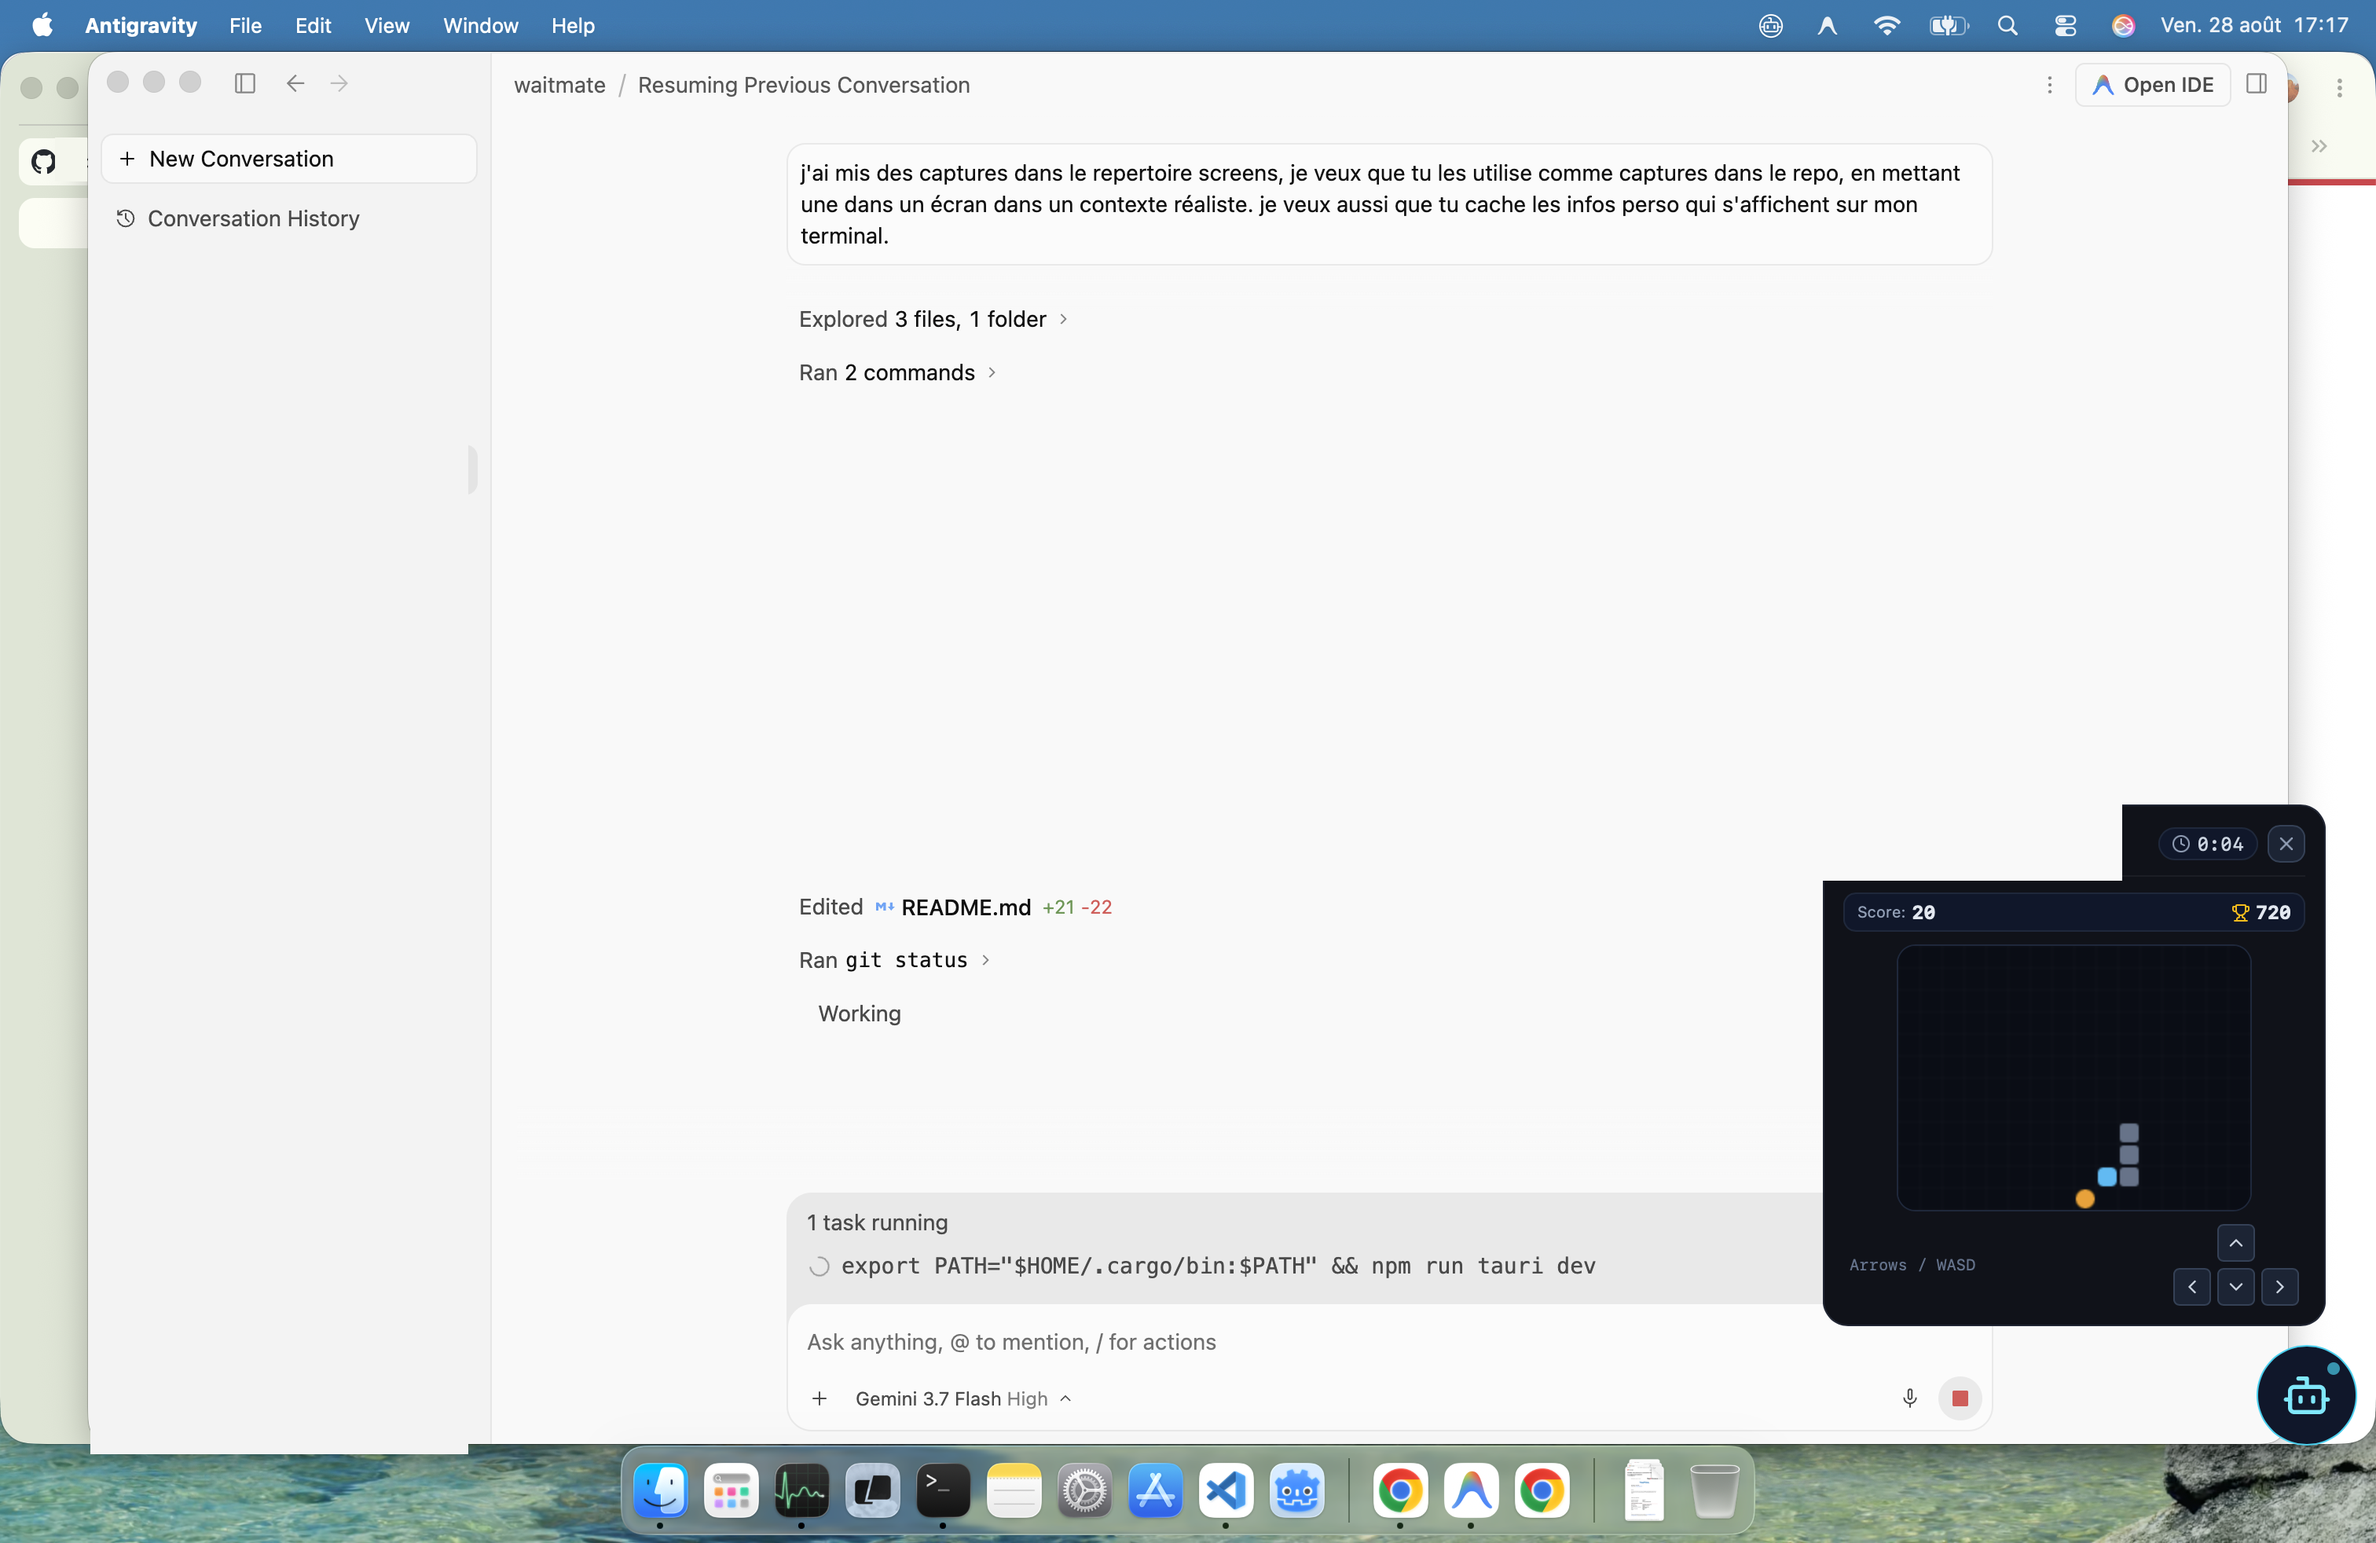
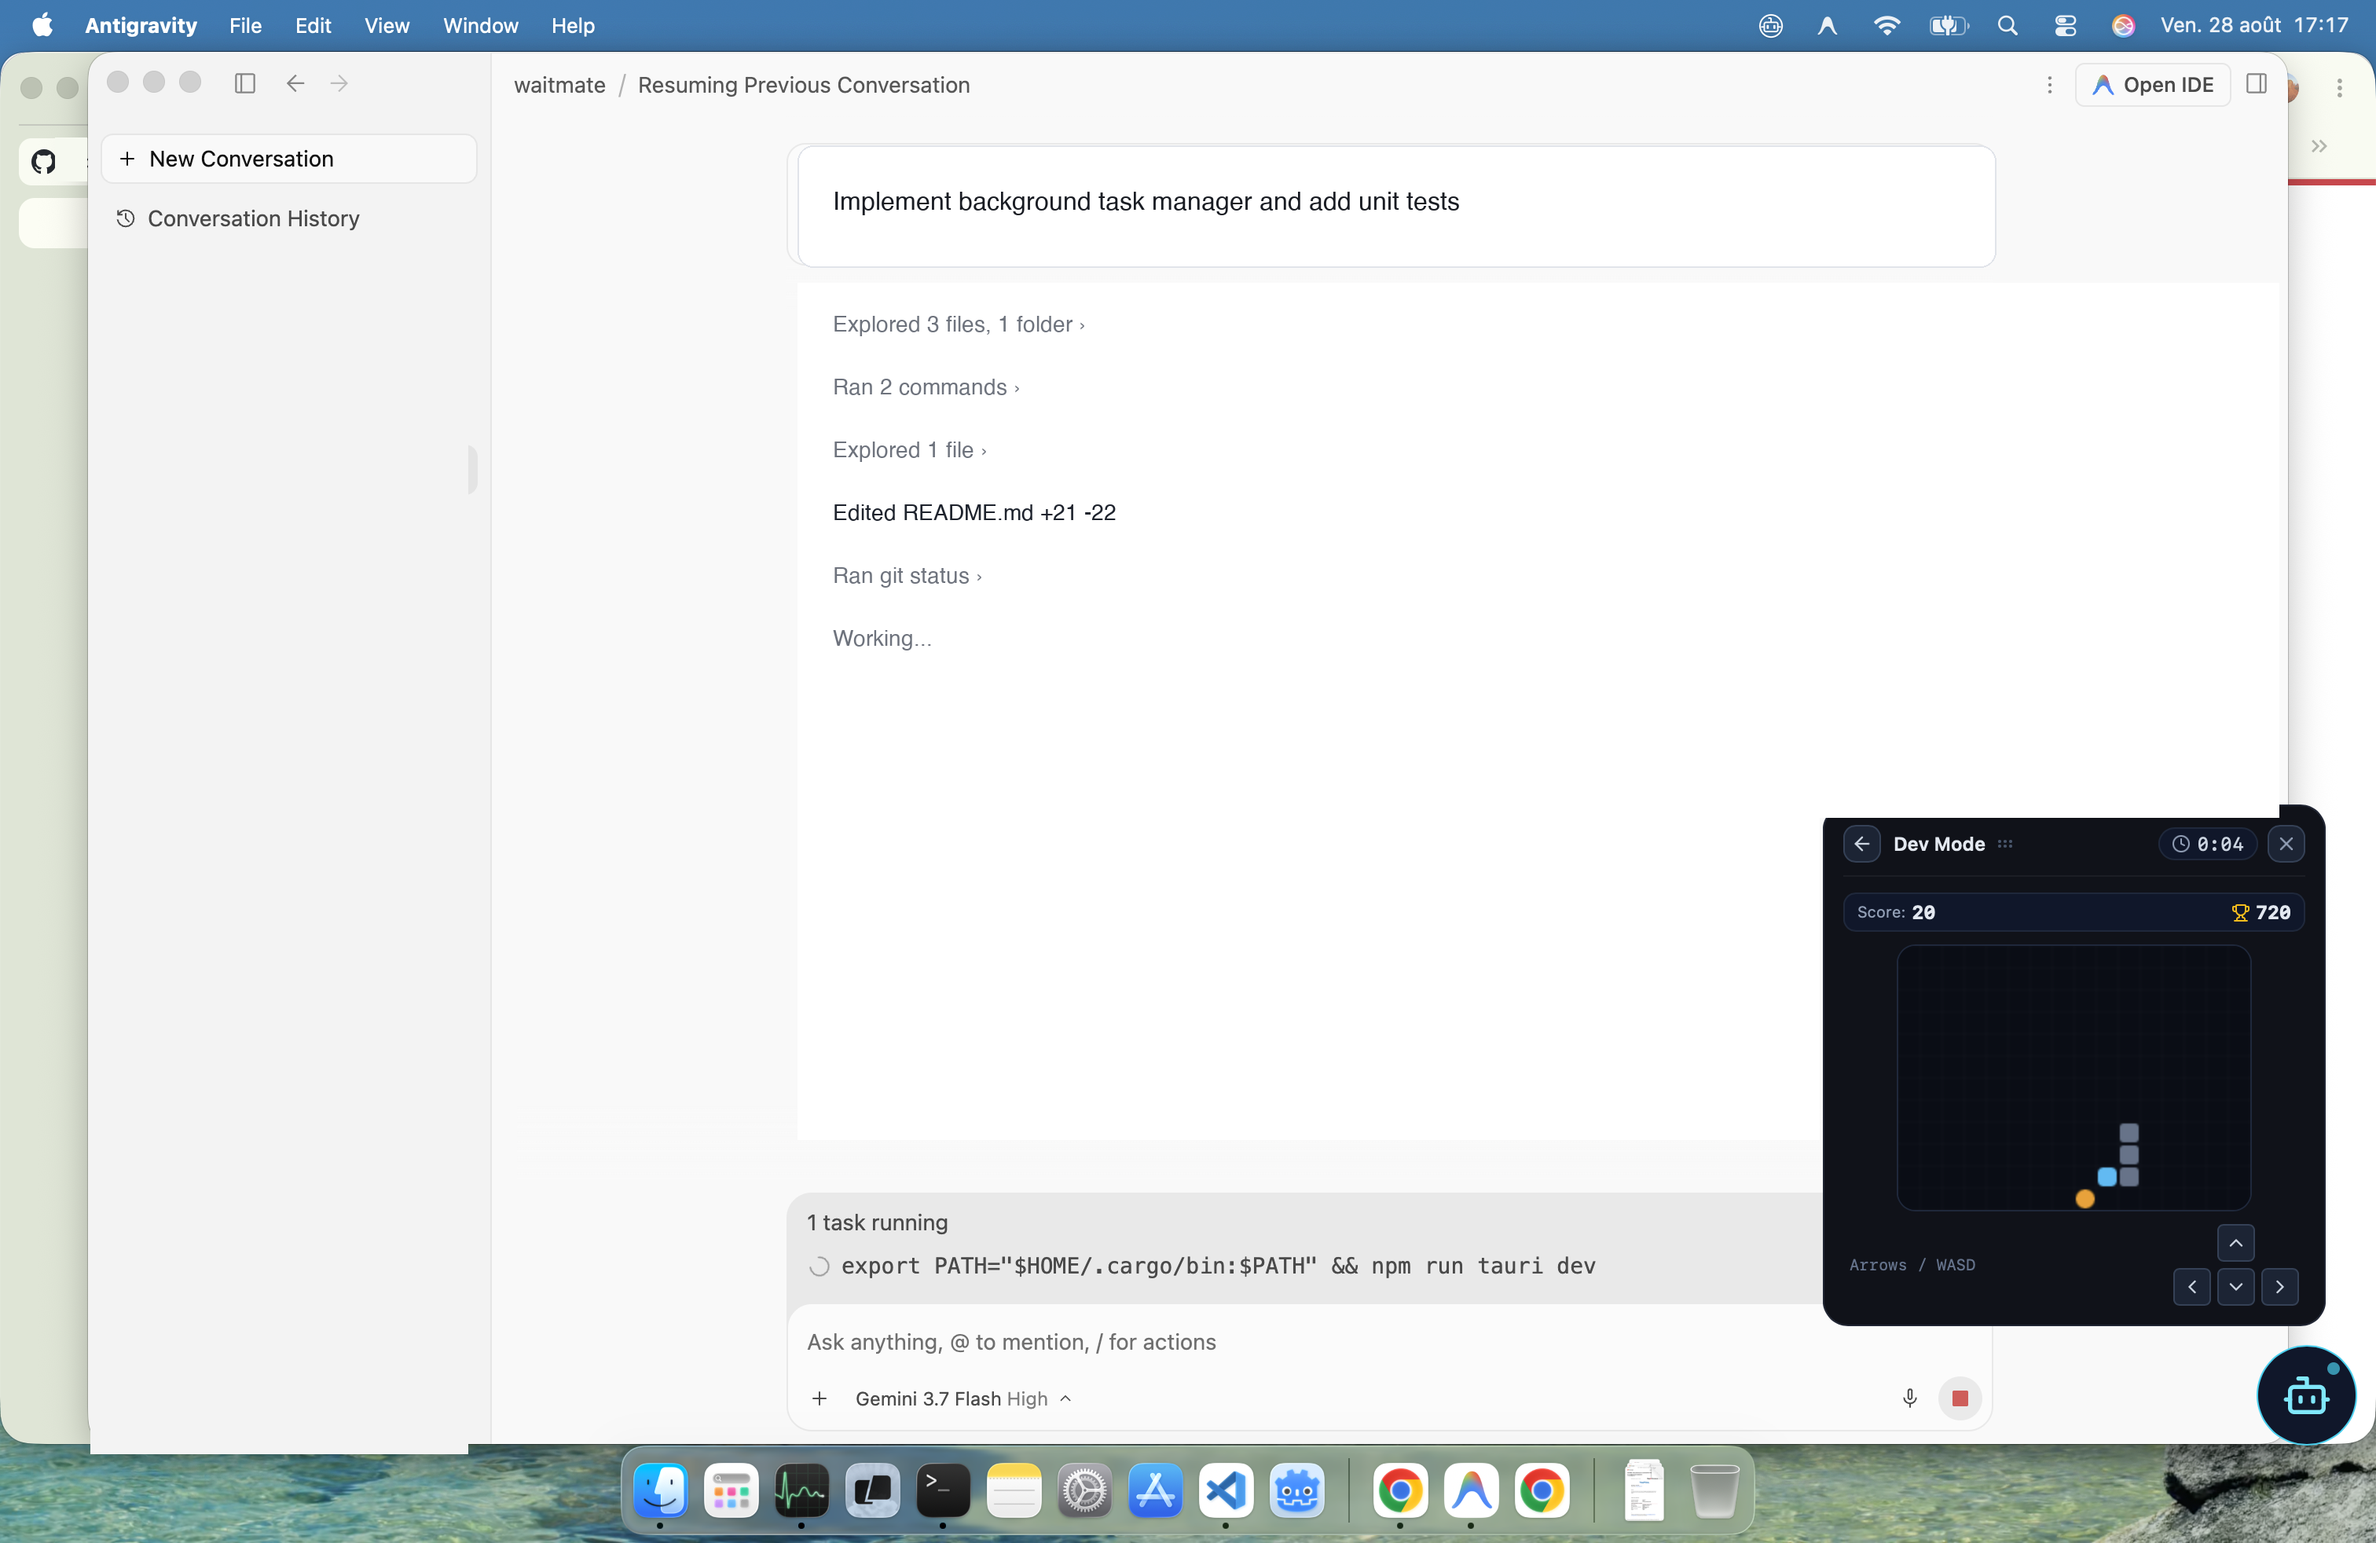
docs: sober up README.md and refine clean Snake arcade screenshot

diff --git a/README.md b/README.md
@@ -1,4 +1,4 @@
-<h1 align="center">🤖 WaitMate</h1>
+<h1 align="center">WaitMate</h1>
 
 <p align="center">
   <strong>The floating desktop companion that turns AI waiting times into focused micro-breaks.</strong>
@@ -38,45 +38,45 @@
 
 ---
 
-## 💡 Why WaitMate?
+## Why WaitMate?
 
-When working with modern LLMs and agentic coding tools (**Antigravity**, **Claude Code**, **Ollama**, **Aider**), developers spend dozens of 15–60 second intervals waiting for answers, tool executions, and file diffs. 
+When working with modern LLMs and agentic coding tools (Antigravity, Claude Code, Ollama, Aider), developers spend dozens of 15–60 second intervals waiting for answers, tool executions, and file diffs. 
 
 Context-switching to a browser tab or social media destroys flow state. **WaitMate** stays discretely on your screen:
-- **Calm & Compact in Idle** (160×160 px circle in the corner of your screen).
-- **Auto-Deploys in Milliseconds** as soon as your AI starts thinking.
-- **Auto-Retracts Instantly** with zero delay the exact moment your answer is ready.
+- **Calm and compact in Idle**: 160×160 px circular companion in the corner of your screen.
+- **Auto-deploys in milliseconds** as soon as your AI starts thinking.
+- **Auto-retracts instantly** with zero delay the exact moment your answer is ready.
 
 ---
 
-## ✨ Features
+## Features
 
-### 1. 🔍 Zero-Config Universal AI Detection
-- **Native Antigravity & `agy` Watcher**: High-frequency real-time transcript monitoring (`120ms`) covering both the Antigravity IDE and the `agy` terminal CLI.
+### Universal AI Detection
+- **Native Antigravity and agy Watcher**: High-frequency real-time transcript monitoring (`120ms`) covering both the Antigravity IDE and the `agy` terminal CLI.
 - **CLI Process Scanner**: Automatically detects active terminal AI commands including `claude`, `ollama run`, `aider`, `gemini`, `llm`, and `sgpt`.
-- **Universal CLI Wrapper (`wm`)**: Prefix *any* custom terminal script or command with `wm` (e.g. `wm python script.py`, `wm curl ...`) to trigger WaitMate during execution.
-- **Zsh Shell Hook**: Seamless `preexec`/`precmd` hook integration for zero-effort shell triggering.
-- **HTTP Webhook API**: Simple local REST endpoint on port `9999` (`POST /start` & `POST /stop`).
+- **Universal CLI Wrapper (`wm`)**: Prefix custom terminal commands with `wm` (e.g. `wm python script.py`, `wm curl ...`) to trigger WaitMate during execution.
+- **Zsh Shell Hook**: `preexec`/`precmd` hook integration for zero-effort shell triggering.
+- **HTTP Webhook API**: Local REST endpoint on port `9999` (`POST /start` & `POST /stop`).
 
-### 2. 🐍 Snake Arcade
+### Snake Arcade
 - Responsive 2D retro canvas game with fluid controls (Arrow keys, `WASD`, `ZQSD`, or on-screen D-Pad).
 - Golden bonus apples (+30 pts), score multipliers, and persistent high-score tracking.
 
-### 3. 📺 Ambient YouTube Player
-- Type any keyword (e.g. `lofi`, `cats`, `f1`, `synthwave`, `gaming`) to launch a randomized ambient video.
-- **Anti-Repetition Engine**: Automatically excludes your last 50 viewed videos and diversifies search terms to guarantee a fresh video every time.
-- **Muted by Default**: Videos start silently so your music or environment isn't interrupted; toggle sound anytime with one click.
-- **Distraction-Free**: Player controls and interactive overlays are disabled for a clean, TV-like experience.
+### Ambient YouTube Player
+- Type any keyword (e.g. `lofi`, `cats`, `synthwave`, `gaming`) to launch a randomized ambient video.
+- **Anti-Repetition Engine**: Automatically excludes recently viewed videos and diversifies search terms to ensure a fresh video every time.
+- **Muted by Default**: Videos start silently to avoid interrupting your audio; toggle sound anytime with one click.
+- **Distraction-Free**: Interactive overlays and player controls are disabled for a clean experience.
 
-### 4. 🪶 Minimalist & Native macOS UX
+### Native macOS Experience
 - Transparent, frameless window with **Always-on-Top** support.
-- Fully draggable anywhere across your displays.
-- Automatic window focus upon expansion so you can immediately play with keyboard shortcuts without clicking first.
-- Matte obsidian aesthetic without fluorescent halos or distracting animations.
+- Fully draggable anywhere across displays.
+- Automatic window focus upon expansion so keyboard controls work immediately.
+- Menu Bar accessory without Dock clutter.
 
 ---
 
-## 🚀 Getting Started
+## Getting Started
 
 ### Prerequisites
 - [Node.js](https://nodejs.org/) (v18+)
@@ -105,7 +105,7 @@ npm run tauri build
 
 ---
 
-## 🐚 Terminal Integration
+## Terminal Integration
 
 ### 1. Universal `wm` CLI Wrapper
 A standalone wrapper script is provided in `~/.local/bin/wm`:
@@ -142,16 +142,17 @@ curl -X POST http://127.0.0.1:9999/stop \
 
 ---
 
-## 🛠 Tech Stack
+## Tech Stack
 
 - **Framework**: [Tauri v2](https://tauri.app/) (Rust backend)
 - **Frontend**: [React 19](https://react.dev/), [TypeScript](https://www.typescriptlang.org/), [Vite](https://vitejs.dev/)
 - **Styling**: [Tailwind CSS v4](https://tailwindcss.com/)
-- **Icons & Effects**: [Lucide React](https://lucide.dev/), [Canvas Confetti](https://github.com/catdad/canvas-confetti)
+- **Icons**: [Lucide React](https://lucide.dev/)
 - **System Monitoring**: `sysinfo` crate for low-overhead process tracking
 
 ---
 
-## 📄 License
+## License
 
 This project is open source and available under the [MIT License](LICENSE).
+
